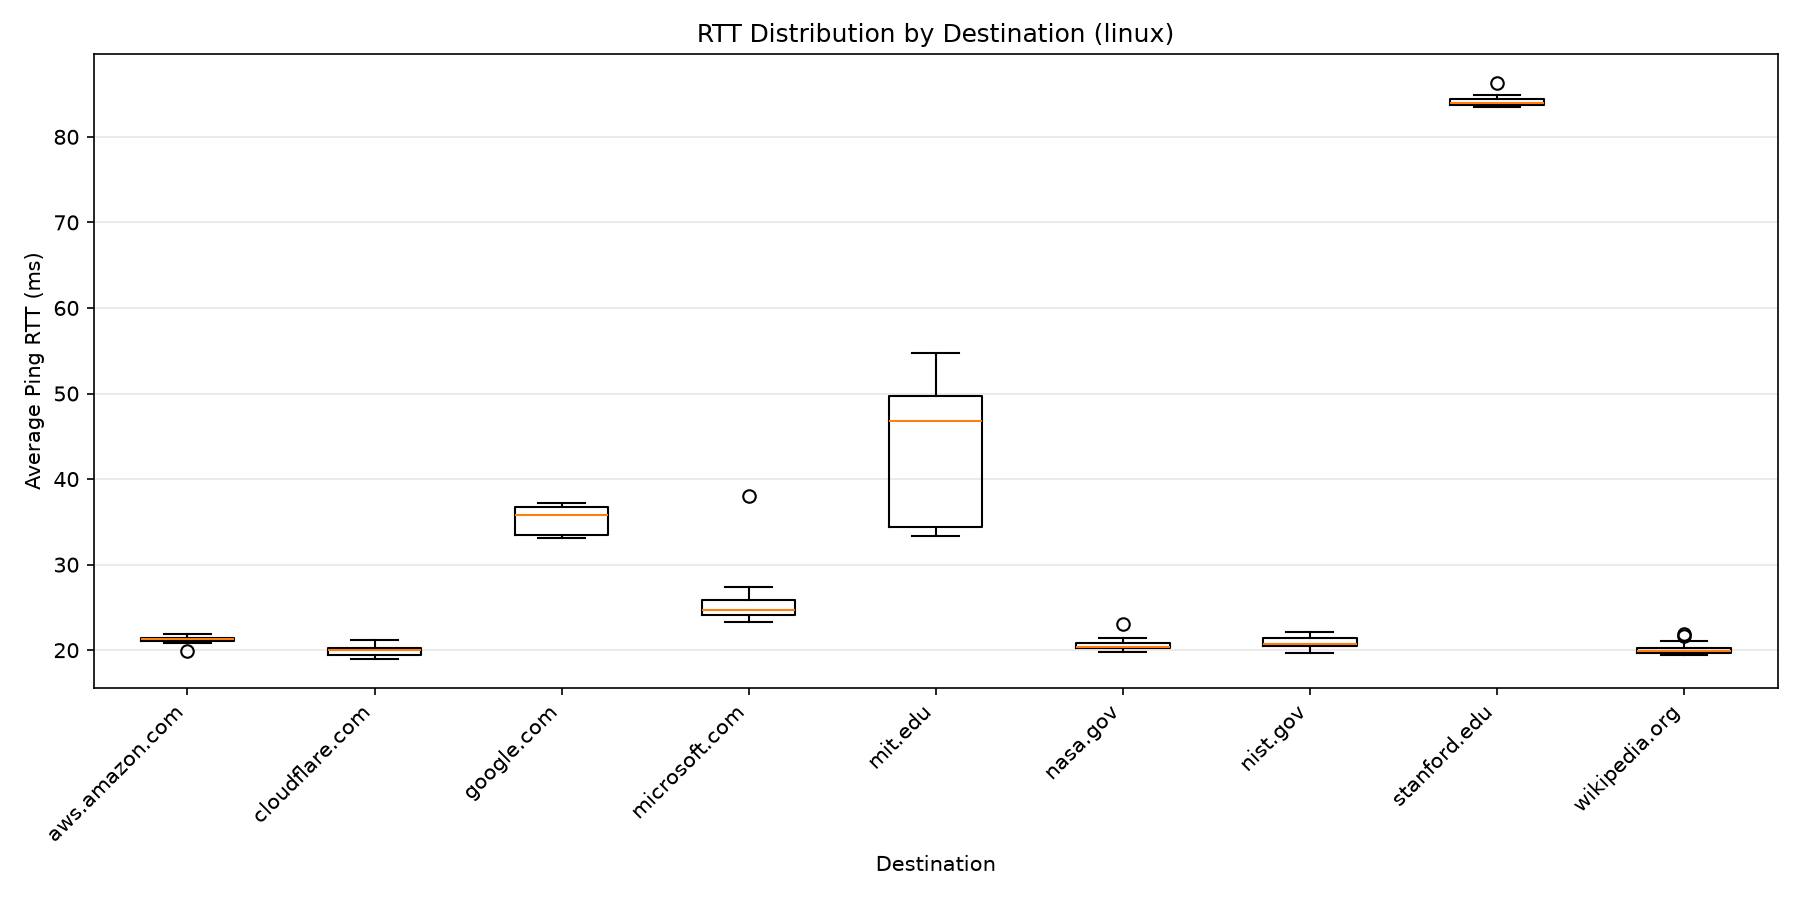
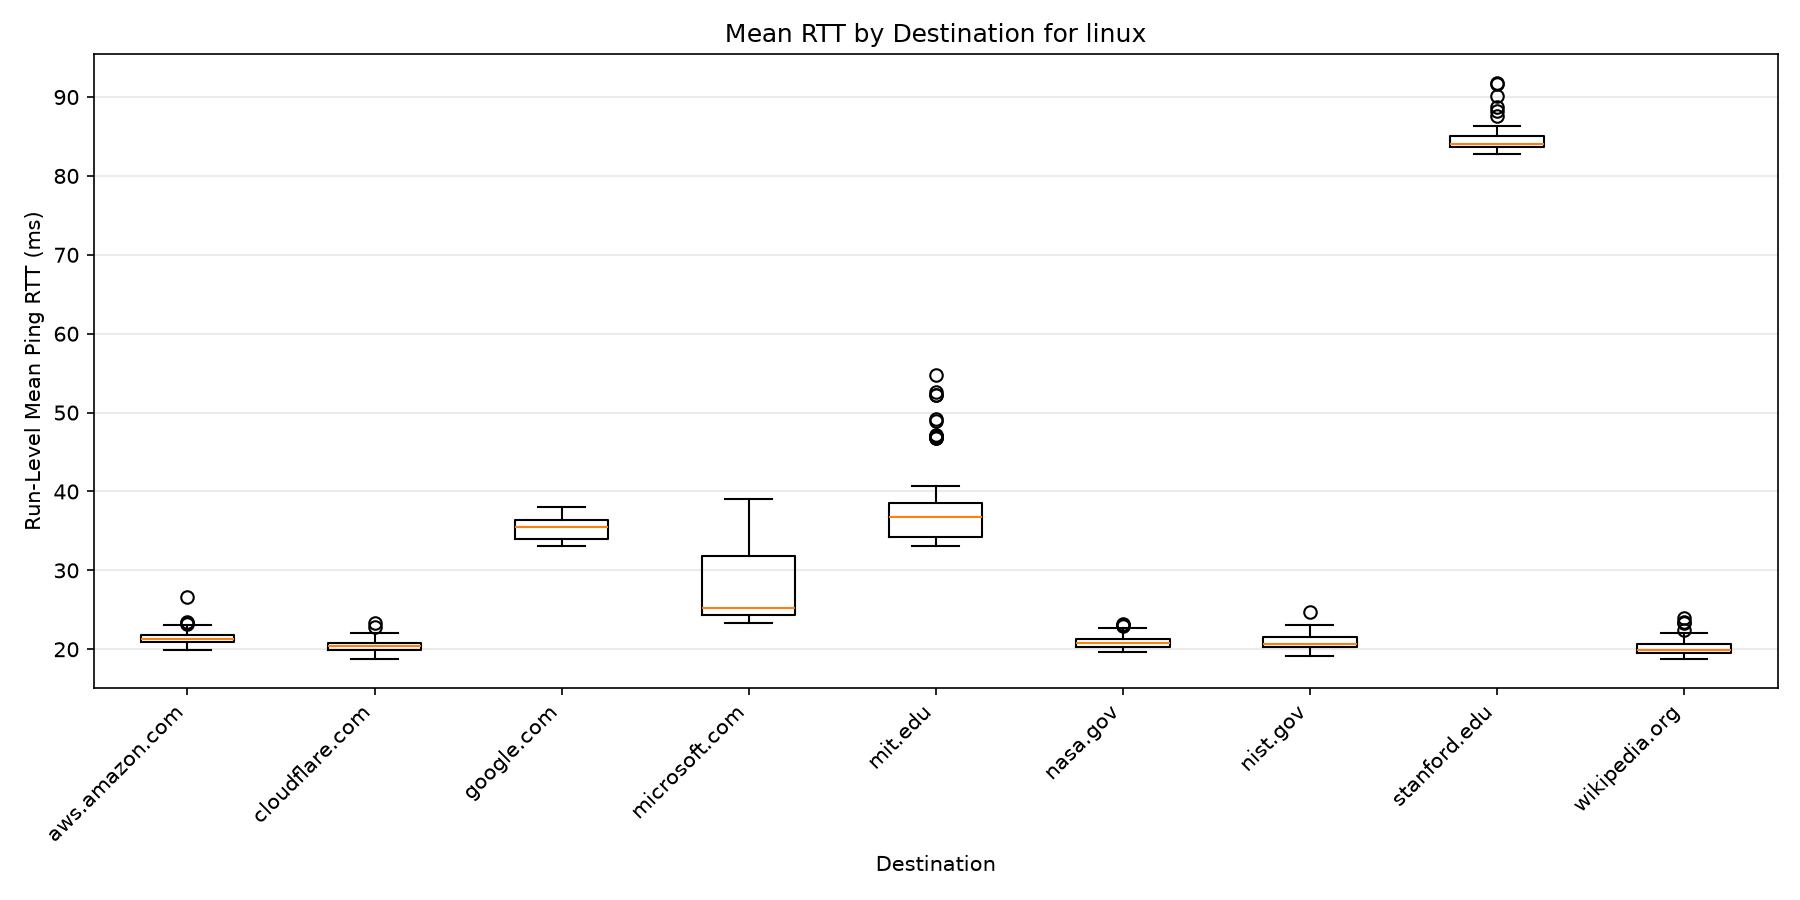
fixes

diff --git a/visualize.py b/visualize.py
@@ -9,18 +9,116 @@ from analysis import load_ping_results, traceroute_hop_count_reaching_destinatio
 # MAYBE add depending on final results
 # def plot_packet_loss
 
+#--------------------------------
+# Function: plot_traceroute_rtt_by_hop_per_destination
+#
+# Purpose: Plot the distribution of traceroute RTTs at each
+# hop number for a destination, separated by OS.
+#
+# Parameters: results - Dictionary keyed by (destination, OS, hop #),
+#             value is a list of the run-level average RTTs for that hop number.
+#             destination - the destination to plot.
+#
+# Returns: None
+#
+# Other outputs: A boxplot saved to the figures/ directory.
+#--------------------------------
 def plot_traceroute_rtt_by_hop_per_destination(results, destination):
     # only show the RTTs for the destination
-    destination_results = []
+    # ex. results: 
+    # {
+    #   ('192.168.1.1', 'windows', 1): [100.0, 101.0, 102.0],
+    #   ('192.168.1.1', 'linux', 1): [100.0, 101.0, 102.0],
+    # }
+    destination_results = {
+        (key[1], key[2]): value for key, value in results.items() if key[0] == destination
+    }
+
+
     if not destination_results:
         print(f"No traceroute RTT data found for destination: {destination}")
         return
     
-    # group the RTTs by hop number
-    grouped_results = {}
-    for row in destination_results:
-        hop_number = int(row['hop_number'])
+    # destination_results is of (OS, hop #) : [RTTs]
+    hop_nums = sorted(set(hop for _, hop in destination_results.keys()))
 
+    operating_systems = sorted(set(os for os, _ in destination_results.keys()))
+
+    fig, ax = plt.subplots(figsize=(15, 6))
+    colors = ['steelblue', 'darkorange']
+
+    for i, os_name in enumerate(operating_systems):
+        positions = []
+        data = []
+
+        for hop in hop_nums:
+            key = (os_name, hop)
+
+            if key not in destination_results:
+                continue
+
+            positions.append(hop + (i - (len(operating_systems) - 1) / 2) * 0.35)
+            data.append(destination_results[key])
+
+        if not data:
+            continue
+
+        ax.boxplot(
+            data,
+            positions=positions,
+            widths=0.3,
+            patch_artist=True,
+            manage_ticks=False,
+            showfliers=False,
+            boxprops=dict(
+                facecolor=colors[i % len(colors)],
+                alpha=0.6
+            ),
+            medianprops=dict(color='black', linewidth=2)
+        )
+
+        ax.plot(
+            [], [],
+            color=colors[i % len(colors)],
+            linewidth=8,
+            alpha=0.6,
+            label=os_name
+        )
+
+    ax.set_xticks(hop_nums)
+    ax.set_title(f"Traceroute RTT by Hop Number for {destination}")
+    ax.set_xlabel("Hop Number")
+    ax.set_ylabel("Mean RTT per Responding Hop (ms)")
+    ax.grid(axis='y', alpha=0.3)
+    ax.legend(title="Operating System")
+
+    output_dir = Path(__file__).resolve().parent / 'figures'
+    output_dir.mkdir(exist_ok=True)
+
+    output_file = output_dir / (
+        f"traceroute_rtt_by_hop_{destination}.png"
+    )
+
+    fig.tight_layout()
+    fig.savefig(output_file, dpi=150)
+
+    print(f"Saved plot to: {output_file}")
+
+    plt.show()
+    plt.close(fig)
+
+
+# ------------------------------------------------------------
+# Function: plot_traceroute_hop_counts
+#
+# Purpose: Plots the minimum hop count to reach each destination, separated by OS.
+#
+# Parameters: hop_counts - a dictionary with the minimum hop count to reach a destination, separated by OS.
+#
+# Returns: None
+#
+# Other outputs: A boxplot saved to the figures/ directory.
+# ------------------------------------------------------------
 def plot_traceroute_hop_counts(hop_counts):
     # hop_counts is (destination, os) : min_hop_count
     if not hop_counts:
@@ -45,7 +143,9 @@ def plot_traceroute_hop_counts(hop_counts):
             if key not in hop_counts:
                 continue
 
+            # append the postiion so the boxplots are separated by OS
             positions.append(j + 1 + (i - (len(operating_systems) - 1) / 2) * 0.35)
+            
             data.append(hop_counts[key])
         
         # if not hop counts for this OS & destination pair, skip
@@ -77,9 +177,9 @@ def plot_traceroute_hop_counts(hop_counts):
     ax.set_xticks(range(1, len(destinations) + 1))
     ax.set_xticklabels(destinations, rotation=45, ha='right')
 
-    ax.set_title("Traceroute Hop Count by Destination and OS")
+    ax.set_title("Minimum Hop Count to Reach Destination by OS")
     ax.set_xlabel("Destination")
-    ax.set_ylabel("Hop Count to Destination")
+    ax.set_ylabel("Minimum Hop Count to Reach Destination")
     ax.yaxis.get_major_locator().set_params(integer=True)
     ax.grid(axis='y', alpha=0.3)
     ax.legend(title="Operating System")
@@ -98,6 +198,18 @@ def plot_traceroute_hop_counts(hop_counts):
     plt.close(fig)
 
 
+# ------------------------------------------------------------
+# Function: plot_latency_boxplot
+#
+# Purpose: Plots a boxplot of the distribution of the run-level average RTTs for each destination, separated by OS.
+#
+# Parameters: results - a list of dictionaries with the ping measurements
+#             os_name - the operating system to plot
+#
+# Returns: None
+#
+# Other outputs: A boxplot saved to the figures/ directory.
+# ------------------------------------------------------------
 def plot_latency_boxplot(results, os_name):
     # group avg RTT values by destination
     grouped_results = {}
@@ -457,17 +569,24 @@ def main():
     ping_filename = Path(__file__).resolve().parent / 'results' / 'ping_results.csv'
     traceroute_filename = Path(__file__).resolve().parent / 'results' / 'traceroute_results.csv'
 
+    # ping_results is the list of dictionaries with all the ping results (each ping has only the avg rtt though)
     ping_results = load_ping_results(ping_filename)
 
-    #plot_latency_boxplot(ping_results, 'windows')
-    #plot_latency_boxplot(ping_results, 'linux')
+    plot_latency_boxplot(ping_results, 'windows')
+    plot_latency_boxplot(ping_results, 'linux')
     # get the unique destinations from the results
     destinations = sorted(set([row['destination'] for row in ping_results]))
     #plot_rtt_all_destinations(ping_results, destinations, 'windows', time_only=True)
     #plot_rtt_all_destinations(ping_results, destinations, 'linux', time_only=True)
     #plot_rtt_boxplot_by_time(ping_results)
-    hop_counts = traceroute_hop_count_reaching_destination(traceroute_filename)
-    plot_traceroute_hop_counts(hop_counts)
+    #hop_counts = traceroute_hop_count_reaching_destination(traceroute_filename)
+    #plot_traceroute_hop_counts(hop_counts)
+    #traceroute_by_rtt = traceroute_rtt_by_hop(traceroute_filename)
+
+    #plot_traceroute_rtt_by_hop_per_destination(traceroute_by_rtt, 'google.com')
+
+    
+
 
 if __name__ == "__main__":
     main()

diff --git a/analysis.py b/analysis.py
@@ -31,7 +31,7 @@ def traceroute_rtt_by_hop(filename):
 # Function: traceroute_hop_count_reaching_destination
 #
 # Purpose: 
-# Checks if traceroute reached the destination and creates a dictionary
+# Checks if traceroute reached each destination for each OS and creates a dictionary
 # of the minimum hop count that reached the destination for each destination & OS pair.
 #
 # Parameters: filename - the name of the file to load (results/traceroute_results.csv)
@@ -57,7 +57,7 @@ def traceroute_hop_count_reaching_destination(filename):
     hop_counts = {}
 
     for key, rows in grouped_runs.items():
-        run_id, destination, os = key
+        destination, run_id, os = key
 
         # only count for traceroute runs that reached their destination
         # so if no rows have the destination_reached flag set to true, skip the run
@@ -125,6 +125,19 @@ def load_ping_results(filename):
 
             results.append(row)
 
+    # ex. results:
+    # {
+    #   "timestamp": "2026-11-05 21:00:00",
+    #   "operating_system": "windows",
+    #   "destination": "google.com",
+    #   "packet_loss": 0.0,
+    #   "min_rtt": 34.0,
+    #   "max_rtt": 42.0,
+    #   "avg_rtt": 38.5,
+    #   "stddev_rtt": 2.8
+    # },
+    #
+    # each row is a ping run for a destination/OS pair
     return results
 
 
@@ -186,19 +199,31 @@ def analyze_ping_results(results):
     return analysis
 
 
-def analyze_ping_by_hour(analysis):
+# ------------------------------------------------------------
+# Function: analyze_ping_by_hour
+#
+# Purpose: analyze the ping results by hour using the loaded ping results.
+#
+# Parameters: results - a list of dictionaries with the individual ping measurements.
+#
+# Returns: A dictionary with the analysis results (with basic statistics) for each destination and operating system by hour.
+# ------------------------------------------------------------
+def analyze_ping_by_hour(results):
     grouped_results = {}
 
-    for key, rows in analysis.items():
+    for row in results:
         # extract the hour from the timestamp
-        timestamp = datetime.fromisoformat(key[0])
+        timestamp = datetime.fromisoformat(row['timestamp'])
         hour = timestamp.hour
 
+        destination = row['destination']
+        operating_system = row['operating_system']
+
         # group by destination, OS, and hour
-        key = (key[0], key[1], hour)
+        key = (destination, operating_system, hour)
 
         # append the row to the list of results for the key
-        grouped_results.setdefault(key, []).append(rows)
+        grouped_results.setdefault(key, []).append(row)
 
     analysis = {}
 
